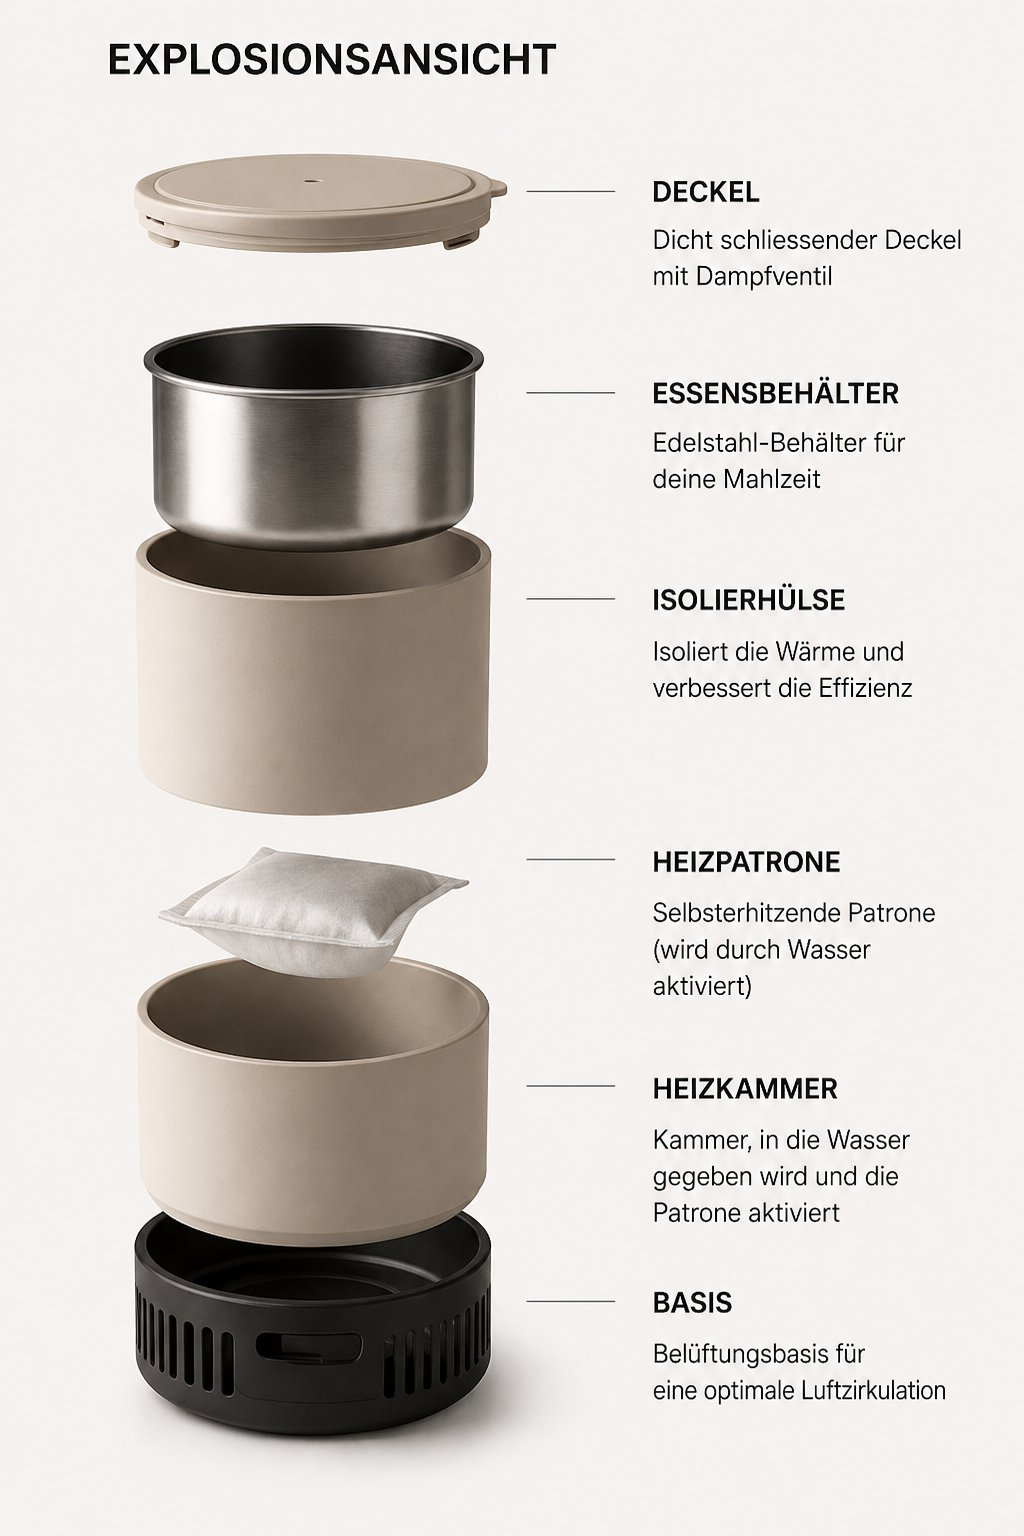
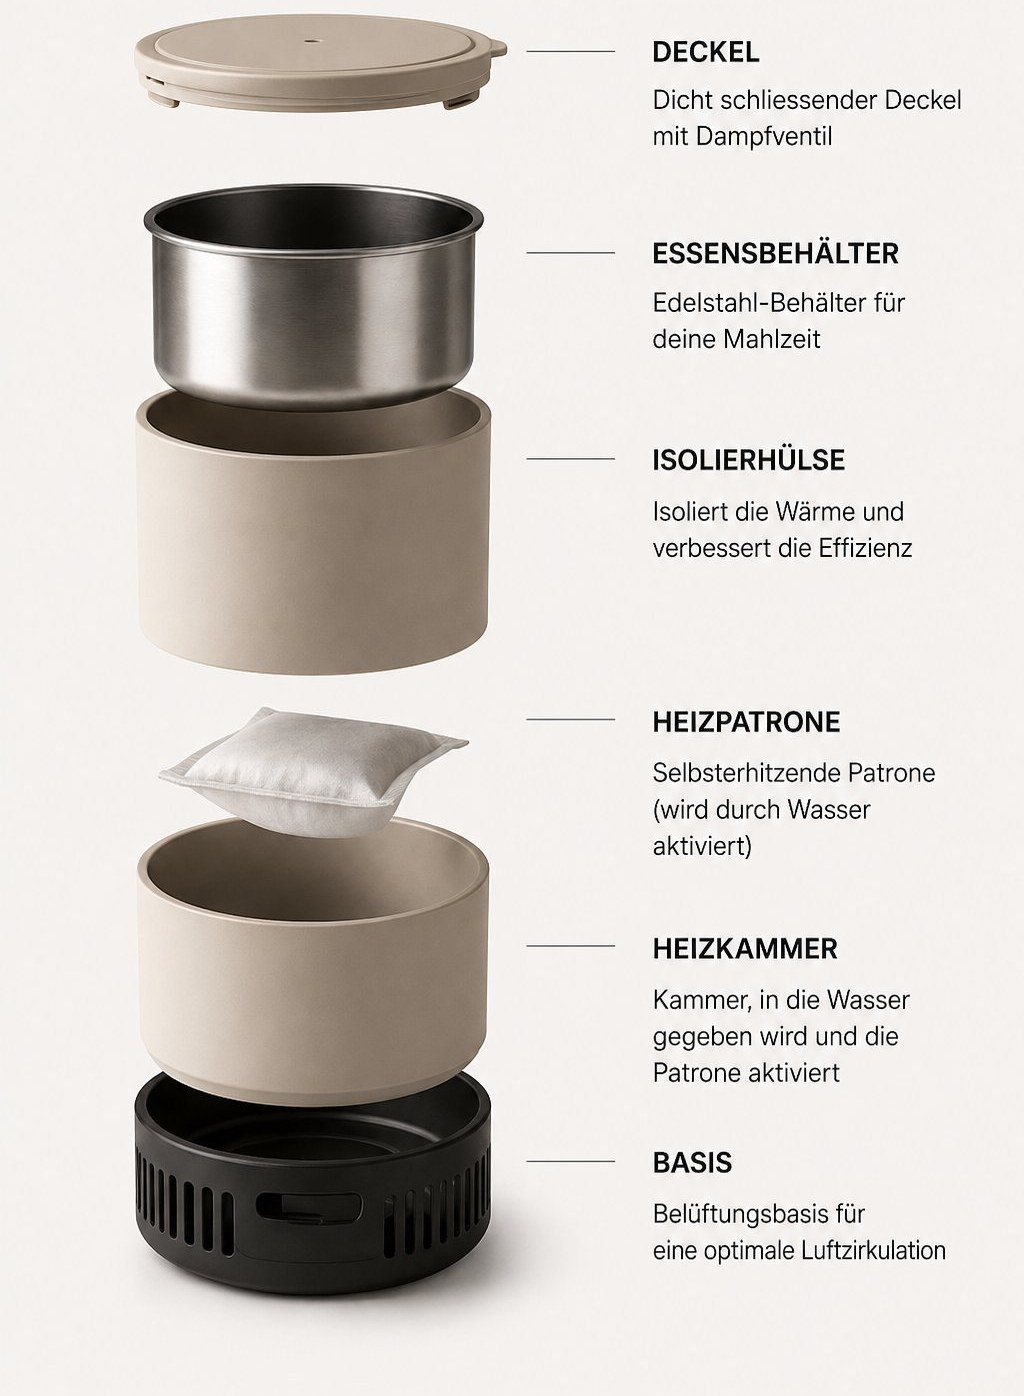
Remove baked-in title from exploded view, add own heading

diff --git a/index.html b/index.html
@@ -471,7 +471,9 @@
 
 <section class="section section-alt">
   <div class="wrap" style="max-width:640px;">
-    <img src="images/exploded-view.jpg" alt="Explosionsansicht: Deckel, Essensbehälter, Isolierhülse, Heizpatrone, Heizkammer, Basis" style="width:100%; border-radius:var(--radius); box-shadow:0 4px 20px rgba(34,31,26,0.06);">
+    <h2>Die Bauteile im Detail</h2>
+    <p class="section-lead">Deckel, Essensbehälter, Isolierhülse, Heizpatrone, Heizkammer, Basis — alles greift ineinander.</p>
+    <img src="images/exploded-view.jpg" alt="Bauteile von HEATRA: Deckel, Essensbehälter, Isolierhülse, Heizpatrone, Heizkammer, Basis" style="width:100%; border-radius:var(--radius); box-shadow:0 4px 20px rgba(34,31,26,0.06);">
   </div>
 </section>
 